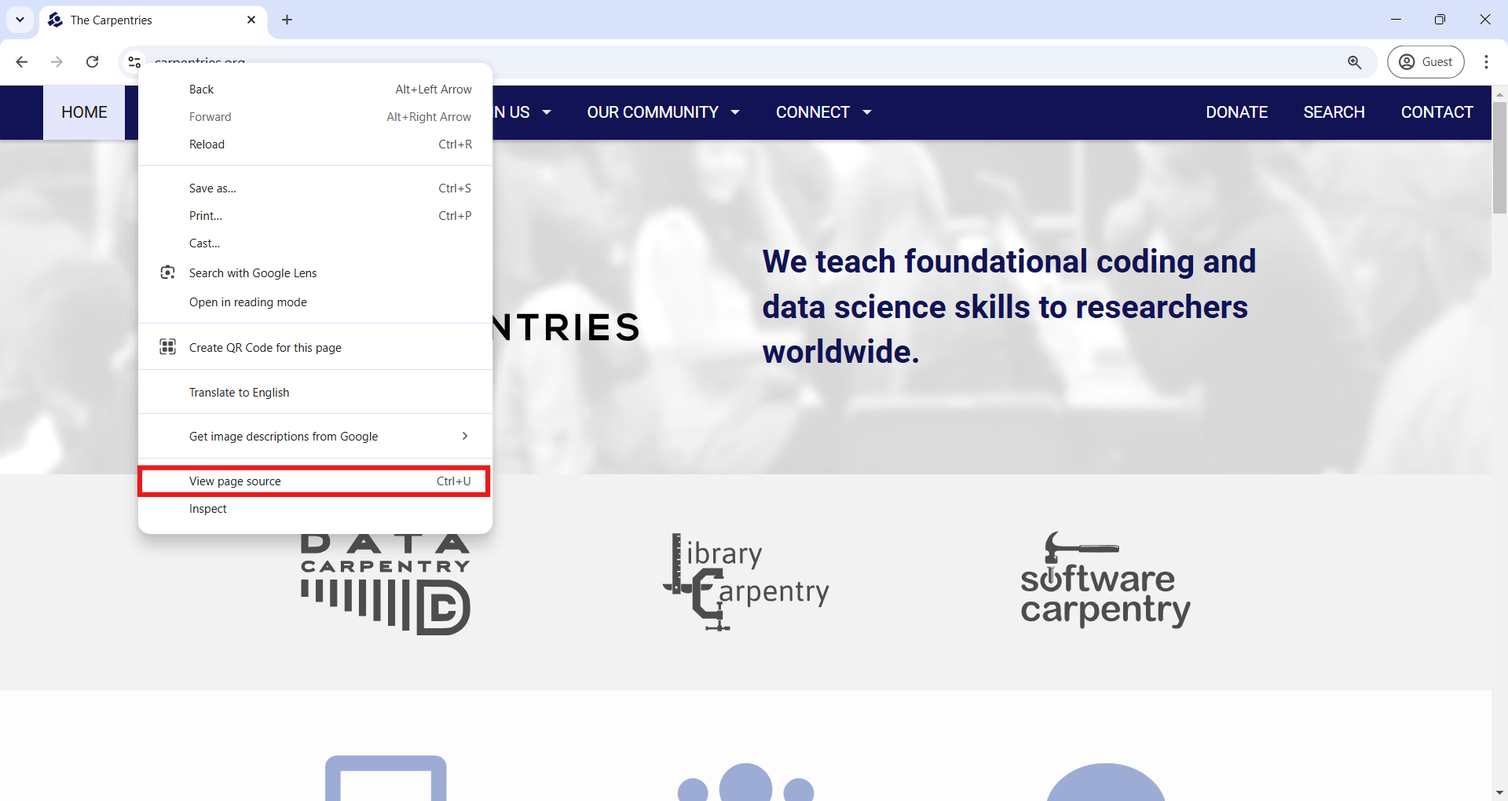
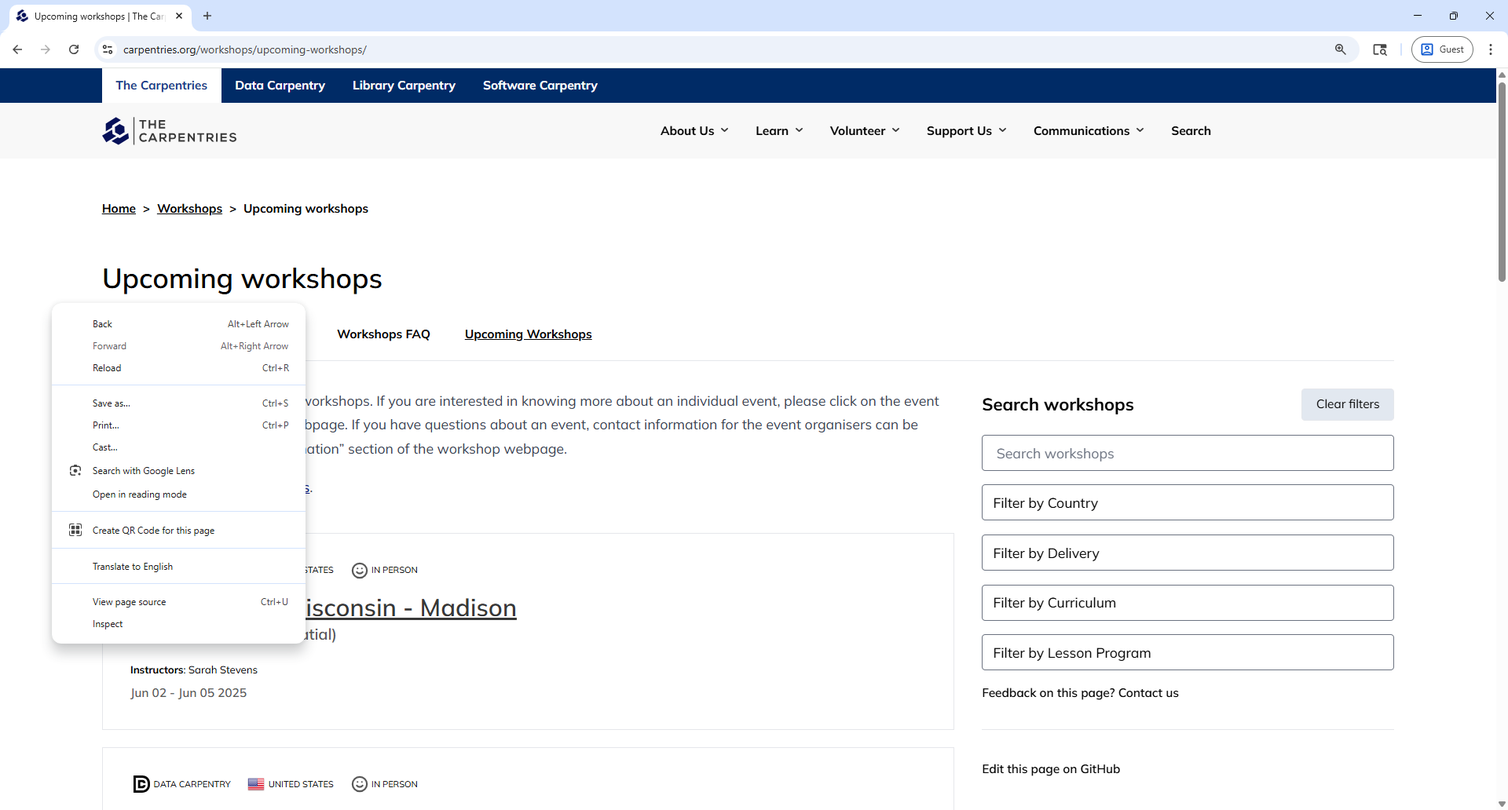
First set of changes to update based on Carpentries website changes

diff --git a/episodes/hello-scraping.md b/episodes/hello-scraping.md
@@ -21,13 +21,18 @@ exercises: 10
 
 ## Introduction
 
-This is part two of an Introduction to Web Scraping workshop we offered on February 2024. You can refer to those [workshop materials](https://ucsbcarpentry.github.io/2024-02-27-ucsb-webscraping/) to have a more gentle introduction to scraping using XPath and the `Scraper` Chrome extension.
+This is part two of an Introduction to Web Scraping workshop we offered on February 2024.
+You can refer to those [workshop materials](https://ucsbcarpentry.github.io/2024-02-27-ucsb-webscraping/) to have a more gentle introduction to scraping using XPath and the `Scraper` Chrome extension.
 
-We'll refresh some of the concepts covered there to have a practical understanding of how content/data is structured in a website. For that purpose, we'll see what Hypertext Markup Language (HTML) is and how it structures and formats the content using `tags`. From there, we'll use the BeautifulSoup library to parse the HTML content so we can easily search and access elements of the website we are interested in. Starting from basic examples, we'll move to scrape more complex, real-life websites.
+We'll refresh some of the concepts covered there to have a practical understanding of how content/data is structured in a website.
+For that purpose, we'll see what Hypertext Markup Language (HTML) is and how it structures and formats the content using `tags`.
+From there, we'll use the BeautifulSoup library to parse the HTML content so we can easily search and access elements of the website we are interested in.
+Starting from basic examples, we'll move to scrape more complex, real-life websites.
 
 ## HTML quick overview
 
-All websites have a Hypertext Markup Language (HTML) document behind them. The following text is HTML for a very simple website, with only three sentences. If you look at it, can you imagine how that website looks?
+All websites have a Hypertext Markup Language (HTML) document behind them. The following text is HTML for a very simple website, with only three sentences.
+If you look at it, can you imagine how that website looks?
 
 ```html
 <!DOCTYPE html>
@@ -55,13 +60,18 @@ Well, if you put that text in a file with a .html extension, the job of your web
 
 ![](fig/simple_website.PNG){alt="Screenshot of a simple website with the previews HTML"}
 
-An HTML document is composed of **elements**, which can be identified by **tags** written inside angle brackets (`<` and `>`). For example, the HTML root element, which delimits the beginning and end of an HTML document, is identified by the `<html>` tag.
+An HTML document is composed of **elements**, which can be identified by **tags** written inside angle brackets (`<` and `>`).
+For example, the HTML root element, which delimits the beginning and end of an HTML document, is identified by the `<html>` tag.
 
-Most elements have both a opening and a closing tag, determining the span of the element. In the previous simple website, we see a head element that goes from the opening tag `<head>` up to the closing tag `</head>`. Given than an element can be inside another element, an HTML document has a tree structure, where every element is a node that can contain child nodes, like the following image shows.
+Most elements have both a opening and a closing tag, determining the span of the element.
+In the previous simple website, we see a head element that goes from the opening tag `<head>` up to the closing tag `</head>`.
+Given than an element can be inside another element, an HTML document has a tree structure, where every element is a node that can contain child nodes, like the following image shows.
 
 ![The Document Object Model (DOM) that represents an HTML document with a tree structure. Source: Wikipedia. Author: Birger Eriksson](https://upload.wikimedia.org/wikipedia/commons/5/5a/DOM-model.svg){alt="Screenshot of a simple website with the previews HTML"}
 
-Finally, we can define or modify the behavior, appeareance, or functionality of an element by using **attributes**. Attributes are inside the opening tag, and consist of a name and a value, formatted as `name="value"`. For example, in the previous simple website, we added a hyperlink with the `<a>...</a>` tags, but to set the destination URL we used the `href` attribute by writing in the opening tag `a href="https://carpentries.org/past_workshops/"`.
+Finally, we can define or modify the behavior, appearance, or functionality of an element by using **attributes**.
+Attributes are inside the opening tag, and consist of a name and a value, formatted as `name="value"`.
+For example, in the previous simple website, we added a hyperlink with the `<a>...</a>` tags, but to set the destination URL we used the `href` attribute by writing in the opening tag `a href="https://carpentries.org/past_workshops/"`.
 
 Here is a non-exhaustive list of elements you'll find in HTML and their purpose:
 
@@ -82,14 +92,17 @@ In the previous list we've described some attributes specific for the hyperlink 
 - `title=""` Provides extra information, displayed as a tooltip when the user hovers over the element.
 - `class=""` Is used to apply a similar styling to multiple elements at once.
 
-To summarize, an **element**  is identified by **tags**, and we can assign properties to an element by using **attributes**. Knowing this about HTML will make our lifes easier when trying to get some specific data from a website.
+To summarize, an **element**  is identified by **tags**, and we can assign properties to an element by using **attributes**.
+Knowing this about HTML will make our lives easier when trying to get some specific data from a website.
 
 
 ## Parsing HTML with BeautifulSoup
 
-Now that we know how a website is structured, we can start extracting information from it. The BeautifulSoup package is our main tool for that task, as it will parse the HTML so we can search and access the elements of interest in a programmatic way. 
+Now that we know how a website is structured, we can start extracting information from it.
+The BeautifulSoup package is our main tool for that task, as it will parse the HTML so we can search and access the elements of interest in a programmatic way.
 
-To see how this package works, we'll use the simple website example we showed before. As our first step, we will load the BeautifulSoup package, along with Pandas.
+To see how this package works, we'll use the simple website example we showed before.
+As our first step, we will load the BeautifulSoup package, along with Pandas.
 
 ```python
 from bs4 import BeautifulSoup
@@ -122,7 +135,9 @@ and another to the
 """
 ```
 
-We parse this HTML using the `BeautifulSoup()` function we imported, specifying that we want to use the `html.parser`. This object will represent the document as a nested data structure, similar to a tree as we mentioned before. If we use the `.prettify()` method on this object, we can see the nested structure, as inner elements will be indented to the right. 
+We parse this HTML using the `BeautifulSoup()` function we imported, specifying that we want to use the `html.parser`.
+This object will represent the document as a nested data structure, similar to a tree as we mentioned before.
+If we use the `.prettify()` method on this object, we can see the nested structure, as inner elements will be indented to the right. 
 
 ```python
 soup = BeautifulSoup(example_html, 'html.parser')
@@ -171,7 +186,12 @@ print(soup.prettify())
 </html>
 ```
 
-Now that our `soup` variable holds the parsed document, we can use the `.find()` and `.find_all()` methods. `.find()` will search the tag that we specify, and return the entire element, including the starting and closing tags. If there are multiple elements with the same tag, `.find()` will only return the first one. If you want to return all the elements that match your search, you'd want to use `.find_all()` instead, which will return them in a list. Additionally, to return the text contained in a given element and all its children, you'd use `.get_text()`. Below you can see how all these commands play out in our simple website example.
+Now that our `soup` variable holds the parsed document, we can use the `.find()` and `.find_all()` methods.
+`.find()` will search the tag that we specify, and return the entire element, including the starting and closing tags.
+If there are multiple elements with the same tag, `.find()` will only return the first one.
+If you want to return all the elements that match your search, you'd want to use `.find_all()` instead, which will return them in a list.
+Additionally, to return the text contained in a given element and all its children, you'd use `.get_text()`.
+Below you can see how all these commands play out in our simple website example.
 
 ```python
 print("1.", soup.find('title'))
@@ -207,7 +227,8 @@ This other paragraph has two  hyperlinks, one to The Carpentries homepage, and a
 
 ```
 
-How would you extract all hyperlinks identified with `<a>` tags? In our example, we see that there are only two hyperlinks, and we could extract them in a list using the `.find_all('a')` method.
+How would you extract all hyperlinks identified with `<a>` tags?
+In our example, we see that there are only two hyperlinks, and we could extract them in a list using the `.find_all('a')` method.
 
 ```python
 links = soup.find_all('a')
@@ -219,7 +240,8 @@ Number of hyperlinks found:  2
 [<a href="https://carpentries.org/">The Carpentries homepage</a>, <a href="https://carpentries.org/past_workshops/">past workshops</a>]
 ```
 
-To access the value of a given attribute in an element, for example the value of the `href` attribute in `<a href="">`, we would use square brackets and the name of the attribute (`['href']`), just like how in a Python dictionary we would access the value using the respective key. Let's make a loop that prints only the URL for each hyperlink we have in our example.
+To access the value of a given attribute in an element, for example the value of the `href` attribute in `<a href="">`, we would use square brackets and the name of the attribute (`['href']`), just like how in a Python dictionary we would access the value using the respective key.
+Let's make a loop that prints only the URL for each hyperlink we have in our example.
 
 ```python
 for item in links:
@@ -266,7 +288,10 @@ first_link['text'] = find_a.get_text()
 
 ::::::::::::::::::::::::::::::::::::::::::::::::
 
-To finish this introduction on HTML and BeautifulSoup, let's create code for extracting in a structured way all the hyperlink elements, their destination URL and the text displayed for link. For that, let's use the `links` variable that we created before as `links = soup.find_all('a')`. We'll loop over each hyperlink element found, storing for each the three pieces of information we want in a dictionary, and finally appending that dictionary to a list called `list_of_dicts`. At the end we will have a list with two elements, that we can transform to a Pandas dataframe.
+To finish this introduction on HTML and BeautifulSoup, let's create code for extracting in a structured way all the hyperlink elements, their destination URL and the text displayed for link.
+For that, let's use the `links` variable that we created before as `links = soup.find_all('a')`.
+We'll loop over each hyperlink element found, storing for each the three pieces of information we want in a dictionary, and finally appending that dictionary to a list called `list_of_dicts`.
+At the end we will have a list with two elements, that we can transform to a Pandas dataframe.
 
 ```python
 links = soup.find_all('a')
@@ -296,9 +321,12 @@ You'll find more useful information about the BeautifulSoup package and how to u
 
 ## The rights, wrongs, and legal barriers to scraping 
 
-The internet is no longer what it used to be. Once an open and boundless source of information, the web has become an invaluable pool of data, widely used by companies to train machine learning and generative AI models. Now, social media platforms and other website owners have either recognized the potential for profit and licensed their data or have become overwhelmed by bots crawling their sites and straining their server resources.
+The internet is no longer what it used to be. Once an open and boundless source of information, the web has become an invaluable pool of data, widely used by companies to train machine learning and generative AI models.
+Now, social media platforms and other website owners have either recognized the potential for profit and licensed their data or have become overwhelmed by bots crawling their sites and straining their server resources.
 
-For this reason, it’s now more common to see that a website's Terms of Service (TOS) explicitly prohibits web scraping. If we want to avoid getting into trouble, we need to carefully check the TOS of your website of interest as well as its 'robots.txt' file. You should be able to find both using your preferred search engine, but you may directly go to the latter by appending '/robots.txt' at the root URL of the website (e.g. for Facebook you'll find it in 'https://facebook.com/robots.txt', not in any other URL like 'https://facebook.com/user/robots.txt').
+For this reason, it’s now more common to see that a website's Terms of Service (TOS) explicitly prohibits web scraping.
+If we want to avoid getting into trouble, we need to carefully check the TOS of your website of interest as well as its 'robots.txt' file.
+You should be able to find both using your preferred search engine, but you may directly go to the latter by appending '/robots.txt' at the root URL of the website (e.g. for Facebook you'll find it in 'https://facebook.com/robots.txt', not in any other URL like 'https://facebook.com/user/robots.txt').
 
 
 ::::::::::::::::::::::::::::::::::::: challenge
@@ -307,18 +335,41 @@ Visit [Facebook's Terms of Service](https://www.facebook.com/terms.php) and its 
 
 ::::::::::::::::::::::::::::::::::::::::::::::::
 
-Besides checking the website's policies, you should also be aware of the legislation applicable to your location regarding copyright and data privacy laws. If you plan to start harvesting a large amount of data for research or commercial purposes, you should probably seek legal advice first. If you work in a university, chances are it has a copyright office that will help you sort out the legal aspects of your project. The university library is often the best place to start looking for help on copyright.
+Besides checking the website's policies, you should also be aware of the legislation applicable to your location regarding copyright and data privacy laws.
+If you plan to start harvesting a large amount of data for research or commercial purposes, you should probably seek legal advice first.
+If you work in a university, chances are it has a copyright office that will help you sort out the legal aspects of your project.
+The university library is often the best place to start looking for help on copyright.
 
 To conclude, here is a brief code of conduct you should consider when doing web scraping:
 
 
-1. **Ask nicely if you can access the data in another way**. If your project requires data from a particular organisation, you can try asking them directly if they could provide you what you are looking for, or check if they have an API to access the data. With some luck, they will have the primary data that they used on their website in a structured format, saving you the trouble.
-1. **Don’t download copies of documents that are clearly not public**. For example, academic journal publishers often have very strict rules about what you can and what you cannot do with their databases. Mass downloading article PDFs is probably prohibited and can put you (or at the very least your friendly university librarian) in trouble. If your project requires local copies of documents (e.g. for text mining projects), special agreements can be reached with the publisher. The library is a good place to start investigating something like that.
-1. **Check your local legislation**. For example, certain countries have laws protecting personal information such as email addresses and phone numbers. Scraping such information, even from publicly avaialable web sites, can be illegal (e.g. in Australia).
-1. **Don’t share downloaded content illegally**. Scraping for personal purposes is usually OK, even if it is copyrighted information, as it could fall under the fair use provision of the intellectual property legislation. However, sharing data for which you don’t hold the right to share is illegal.
-1. **Share what you can**. If the data you scraped is in the public domain or you got permission to share it, then put it out there for other people to reuse it (e.g. on datahub.io). If you wrote a web scraper to access it, share its code (e.g. on GitHub) so that others can benefit from it.
-1. **Publish your own data in a reusable way**. Don’t force others to write their own scrapers to get at your data. Use open and software-agnostic formats (e.g. JSON, XML), provide metadata (data about your data: where it came from, what it represents, how to use it, etc.) and make sure it can be indexed by search engines so that people can find it.
-1. **Don’t break the Internet**. Not all web sites are designed to withstand thousands of requests per second. If you are writing a recursive scraper (i.e. that follows hyperlinks), test it on a smaller dataset first to make sure it does what it is supposed to do. Adjust the settings of your scraper to allow for a delay between requests. More on this topic in the next episode.
+1. **Ask nicely if you can access the data in another way**.
+If your project requires data from a particular organisation, you can try asking them directly if they could provide you what you are looking for, or check if they have an API to access the data.
+With some luck, they will have the primary data that they used on their website in a structured format, saving you the trouble.
+
+1. **Don’t download copies of documents that are clearly not public**.
+For example, academic journal publishers often have very strict rules about what you can and what you cannot do with their databases. Mass downloading article PDFs is probably prohibited and can put you (or at the very least your friendly university librarian) in trouble.
+If your project requires local copies of documents (e.g. for text mining projects), special agreements can be reached with the publisher. The library is a good place to start investigating something like that.
+
+1. **Check your local legislation**.
+For example, certain countries have laws protecting personal information such as email addresses and phone numbers.
+Scraping such information, even from publicly available web sites, can be illegal (e.g. in Australia).
+
+1. **Don’t share downloaded content illegally**.
+Scraping for personal purposes is usually OK, even if it is copyrighted information, as it could fall under the fair use provision of the intellectual property legislation.
+However, sharing data for which you don’t hold the right to share is illegal.
+
+1. **Share what you can**. If the data you scraped is in the public domain or you got permission to share it, then put it out there for other people to reuse it (e.g. on datahub.io).
+If you wrote a web scraper to access it, share its code (e.g. on GitHub) so that others can benefit from it.
+
+1. **Publish your own data in a reusable way**.
+Don’t force others to write their own scrapers to get at your data.
+Use open and software-agnostic formats (e.g. JSON, XML), provide metadata (data about your data: where it came from, what it represents, how to use it, etc.) and make sure it can be indexed by search engines so that people can find it.
+
+1. **Don’t break the Internet**.
+Not all web sites are designed to withstand thousands of requests per second.
+If you are writing a recursive scraper (i.e. that follows hyperlinks), test it on a smaller data set first to make sure it does what it is supposed to do.
+Adjust the settings of your scraper to allow for a delay between requests. More on this topic in the next episode.
 
 ::::::::::::::::::::::::::::::::::::: keypoints 
 
@@ -327,7 +378,7 @@ To conclude, here is a brief code of conduct you should consider when doing web 
 - Elements can have different properties, assigned by attributes in the form of `<tag attribute_name="value">`.
 - We can parse any HTML document with `BeautifulSoup()` and find elements using the `.find()` and `.find_all()` methods.
 - We can access the text of an element using the `.get_text()` method and the attribute values as we do with Python dictionaries (`element["attribute_name"]`).
-- We must be careful to not tresspass the Terms of Service (TOS) of the website we are scraping.
+- We must be careful to not trespass the Terms of Service (TOS) of the website we are scraping.
 
 ::::::::::::::::::::::::::::::::::::::::::::::::
 

diff --git a/episodes/a-real-website.md b/episodes/a-real-website.md
@@ -19,33 +19,56 @@ exercises: 15
 
 ::::::::::::::::::::::::::::::::::::::::::::::::
 
+It's now time to extract information from an actual website, [https://carpentries.org](https://carpentries.org), where we'll recover all upcoming and past workshops taught by The Carpentries global community.
+To give you a few ideas of how web scraping is useful in this case, we could use this data to analyze which countries have had more workshops, or build a frequently updated dashboard with recent trends in instruction, or to build an app that notifies us when there's a new workshop offered in our country.
+
+Using the basic tools shown here, you could build similar apps and analyses with the website(s) of your interest.
+But always remember the code of conduct described in the previous episode, especially the first point - there's a chance you can get the data you want more easily.
+In the example we're going to work on now, there's a [list of The Carpentries data feeds](https://feeds.carpentries.org/full_list.html) that you can use to get upcoming and past workshops.
+
 ## "Requests" the website HTML
 
-In the previous episode we used a simple HTML document, not an actual website. Now that we move to more real, complex escenario, we need to add another package to our toolbox, the `requests` package. For the purpose of this web scraping lesson, we will only use `requests` to get the HTML behind a website. However, there's a lot of extra functionality that we are not covering but you can find in the [Requests package documentation](https://requests.readthedocs.io/en/latest/).
+In the previous episode we used a simple HTML document, not an actual website.
+Now that we move to more real, complex scenario, we need to add another package to our toolbox, the `requests` package.
+For the purpose of this web scraping lesson, we will only use `requests` to get the HTML behind a website.
+However, there's a lot of extra functionality that we are not covering but you can find in the [Requests package documentation](https://requests.readthedocs.io/en/latest/).
 
-We'll be scraping The Carpentries website, [https://carpentries.org/](https://carpentries.org/), and specifically, the list of upcoming and past workshop you can find at the bottom. For that, first we'll load the `requests` package and then use the code `.get().text` to store the HTML document of the website. Furthermore, to simplify our navigation through the HTML document, we will use the [Regular Expressions](https://docs.python.org/3/howto/regex.html) `re` module to remove all new line characters ("\n") and their surrounding whitespaces. You can think of removing new lines as a preprocessing or cleaning step, but in this lesson we won't be explaining the intricacies of regular expressions. For that, you can refer to this introductory explanation on the [Library Carpentry](https://librarycarpentry.org/lc-data-intro/01-regular-expressions.html).
+We'll be scraping The Carpentries website, and specifically, the list of [upcoming](https://carpentries.org/workshops/upcoming-workshops/) and [past workshops](https://carpentries.org/workshops/past-workshops/).
+For that, first we'll load the `requests` package and then use the code `.get().text` to store the HTML document of the website.
+Furthermore, to simplify our navigation through the HTML document, we will use the [Regular Expressions](https://docs.python.org/3/howto/regex.html) `re` module to remove all new line characters ("\n") and their surrounding white spaces.
+You can think of removing new lines as a pre-processing or cleaning step, but in this lesson we won't be explaining the intricacies of regular expressions.
+For that, you can refer to this introductory explanation on the [Library Carpentry](https://librarycarpentry.org/lc-data-intro/01-regular-expressions.html).
 
 
 ```python
 import requests
 import re
-url = 'https://carpentries.org/'
+from bs4 import BeautifulSoup
+from time import sleep
+
+url = 'https://carpentries.org/workshops/upcoming-workshops/'
 req = requests.get(url).text
 cleaned_req = re.sub(r'\s*\n\s*', '', req).strip()
 print(cleaned_req[0:1000])
 ```
 
 ```output
-<!doctype html><html class="no-js" lang="en"><head><meta charset="utf-8"><meta name="viewport" content="width=device-width, initial-scale=1.0"><title>The Carpentries</title><link rel="stylesheet" type="text/css" href="https://carpentries.org/assets/css/styles_feeling_responsive.css"><script src="https://carpentries.org/assets/js/modernizr.min.js"></script><!-- matomo --><script src="https://carpentries.org/assets/js/matomo-analytics.js"></script><link href="https://fonts.googleapis.com/css?family=Lato:400,400i,700,700i|Roboto:400,400i,700,700i&display=swap" rel="stylesheet"><!-- Search Engine Optimization --><meta name="description" content="The Carpentries is a fiscally sponsored project of Community Initiatives, a registered 501(c)3 non-profit organisation based in California, USA. We are a global community teaching foundational computational and data science skills to researchers in academia, industry and government."><link rel="canonical" href="https://carpentries.org/index.html"><
+<!doctype html><html class=scroll-smooth lang=en-us dir=ltr><head><meta charset=utf-8><meta name=viewport content="width=device-width"><title>Upcoming workshops | The Carpentries</title><link rel=preconnect href=https://fonts.googleapis.com><link rel=preconnect href=https://fonts.gstatic.com crossorigin><link href="https://fonts.googleapis.com/css2?family=Mulish:ital,wght@0,200..1000;1,200..1000&display=swap" rel=stylesheet><script defer src=https://cdn.jsdelivr.net/npm/@glidejs/glide@3.5.x></script><script src=https://kit.fontawesome.com/3a6fac633d.js crossorigin=anonymous></script><link rel=stylesheet href=https://cdn.datatables.net/1.13.6/css/jquery.dataTables.min.css><script src=https://code.jquery.com/jquery-3.7.1.min.js></script><script src=https://cdn.datatables.net/1.13.6/js/jquery.dataTables.min.js></script><script src=https://cdn.jsdelivr.net/npm/moment@2.29.1/moment.min.js></script><script src=https://cdn.datatables.net/plug-ins/1.13.6/sorting/datetime-moment.js></script><sc
 ```
 
 We truncated to print only the first 1000 characters of the document, as it is too long, but we can see it is HTML and has some elements we didn't see in the example of the previous episode, like those identified with the `<meta>`, `<link>` and `<script>` tags.
 
-There's another way to see the HTML document behind a website, directly from your web browser. Using Google Chrome, you can right-click in any part of the website (on a Mac, press and hold the Control key in your keyboard while you click), and from the pop-up menu, click 'View page source', as the next image shows. If the 'View page source' option didn't appear for you, try clicking in another part of the website. A new tab will open with the HTML document for the website you were in.
+There's another way to see the HTML document behind a website, directly from your web browser. Using Google Chrome, you can right-click in any part of the website (on a Mac, press and hold the Control key in your keyboard while you click), and from the pop-up menu, click 'View page source', as the next image shows.
+If the 'View page source' option didn't appear for you, try clicking in another part of the website. A new tab will open with the HTML document for the website you were in.
 
-![](fig/view_page_source.png){alt="A screenshot of The Carpentries homepage in the Google Chrome web browser, showing how to View page source"}
+![](fig/view_page_source.png){alt="A screenshot of The Carpentries upcoming workshops website in the Google Chrome web browser, showing how to View page source"}
 
-In the HTML page source on your browser you can scroll down and look for the second-level header (`<h2>`) with the text "Upcoming Carpentries Workshops". Or more easily, you can use the Find Bar (Ctrl + F on Windows and Command + F on Mac) to search for "Upcoming Carpentries Workshops". Just right down of that header we have the table element we are interested in, which starts with the opening tag `<table class="table table-striped" style="width: 100%;">`. Inside that element we see nested different elements familiar for a table, the rows (`<tr>`) and the cells for each row (`<td>`), and additionally the image (`<img>`) and hyperlink (`<a>`) elements.
+In the HTML page source on your browser you can scroll down and look for the first-level header (`<h1>`) with the text "Upcoming workshops". Or more easily, you can use the Find Bar (Ctrl + F on Windows and Command + F on Mac) to search for "Upcoming workshops".
+If you read from there and compare it to the rendered website, you'll see how the content is formatted from the raw HTML, using tags like unordered lists (`<ul>`), list items (`<li>`), paragraphs (`<p>`), and divisions or sections (`<div>`).
+
+However, it would take you a long while of carefully reading the HTML to understand the page structure and where the data you 
+
+CHANGE: Insert part on Chrome INSPECT
 
 ## Finding the information we want 
 
@@ -64,7 +87,7 @@ Printing only the first 1000 characters of the table element:
  <table class="table table-striped" style="width: 100%;"><tr><td><img alt="swc logo" class="flags" height="24" src="https://carpentries.org/assets/img/logos/swc.svg" title="swc workshop" width="24"/></td><td><img alt="mx" class="flags" src="https://carpentries.org/assets/img/flags/24/mx.png" title="MX"><img alt="globe image" class="flags" src="https://carpentries.org/assets/img/flags/24/w3.png" title="Online"><a href="https://galn3x.github.io/-2024-10-28-Metagenomics-online/">Nodo Nacional de BioinformÃ¡tica UNAM</a><br><b>Instructors:</b> CÃ©sar Aguilar, Diana Oaxaca, Nelly Selem-Mojica<br><b>Helpers:</b> Andreas Chavez, JosÃ© Manuel Villalobos Escobedo, Aaron Espinosa Jaime, AndrÃ©s Arredondo, Mirna VÃ¡zquez Rosas-Landa, David Alberto GarcÃa-Estrada</br></br></img></img></td><td>Oct 28 - Oct 31, 2024</td></tr><tr><td><img alt="dc logo" class="flags" height="24" src="https://carpentries.org/assets/img/logos/dc.svg" title="dc workshop" width="24"/></td><td><img alt="de" class="flags" s
 ```
 
-From our output we see that there was only one table element in the entire HTML, which corresponds to the table we are looking for. The output you see in the previous code block will be different from what you have in your computer, as the data in the upcoming workshops table is continously updated.
+From our output we see that there was only one table element in the entire HTML, which corresponds to the table we are looking for. The output you see in the previous code block will be different from what you have in your computer, as the data in the upcoming workshops table is continuously updated.
 
 Besides searching elements using tags, sometimes it will be useful to search using attributes, like `id` or `class`. For example, we can see the table element has a class attribute with two values "table table-striped", which identifies all possible elements with similar styling. Therefore, we could have the same result than before using the `class_` argument on the `.find_all()` method as follows.
 

diff --git a/learners/setup.md b/learners/setup.md
@@ -2,7 +2,10 @@
 title: Setup
 ---
 
-In this workshop you will learn how to extract data from websites, what you'd call web scraping, using Python. In Episode 1 we begin by reviewing the structure of websites in HTML and how to retrieve information from it using your browser and the `BeautifulSoup` package. In Episode 2 we'll dive deep on how to get the HTML behind any website using the `requests` package and how to parse and find information with `BeautifulSoup`. At the end,you’ll learn about the differences between static and dynamic webpages, and how to scrape the latter with the `Selenium` package.
+In this workshop you will learn how to extract data from websites, what you'd call web scraping, using Python.
+In Episode 1 we begin by reviewing the structure of websites in HTML and how to retrieve information from it using your browser and the `BeautifulSoup` package.
+In Episode 2 we'll dive deep on how to get the HTML behind any website using the `requests` package and how to parse and find information with `BeautifulSoup`.
+At the end, you’ll learn about the differences between static and dynamic webpages, and how to scrape the latter with the `Selenium` package.
 
 This workshop is designed for participants who already have a basic understanding of Python programming. In particular, it's best to know how to:
 
